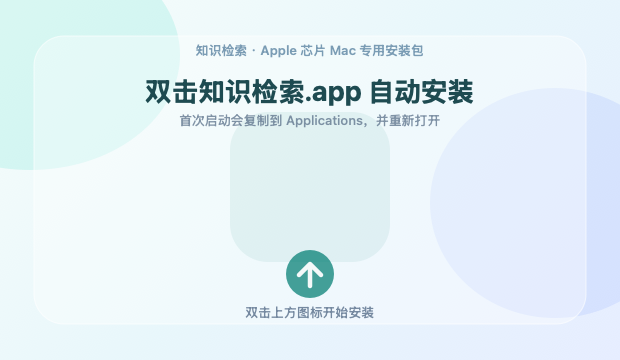
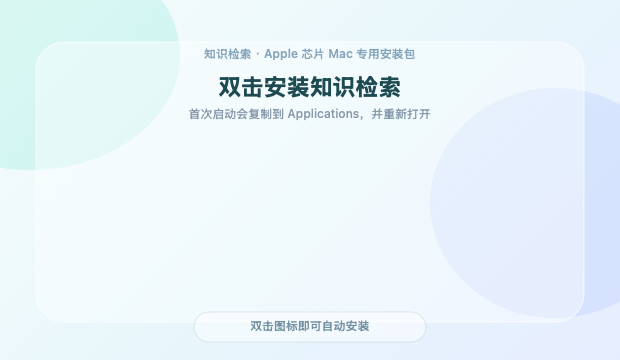
style: refine dmg installer layout

Changed region(s): [[0.2145, 0.2139, 0.7661, 0.3667], [0.3984, 0.6722, 0.6129, 0.9167], [0.3065, 0.1222, 0.7048, 0.1833]]

diff --git a/desktop/scripts/generate-dmg-background.swift b/desktop/scripts/generate-dmg-background.swift
@@ -53,69 +53,55 @@ func renderBackground(width: CGFloat, height: CGFloat, scale: CGFloat, outputURL
   NSColor(calibratedRed: 0.42, green: 0.53, blue: 1.0, alpha: 0.16).setFill()
   glowRight.fill()
 
-  let panel = NSBezierPath(roundedRect: rect(34, 36, 552, 288), xRadius: scaled(30), yRadius: scaled(30))
-  NSColor.white.withAlphaComponent(0.36).setFill()
+  let panel = NSBezierPath(roundedRect: rect(36, 38, 548, 280), xRadius: scaled(28), yRadius: scaled(28))
+  NSColor.white.withAlphaComponent(0.40).setFill()
   panel.fill()
-  NSColor.white.withAlphaComponent(0.58).setStroke()
+  NSColor.white.withAlphaComponent(0.62).setStroke()
   panel.lineWidth = scaled(1.1)
   panel.stroke()
-
-  let focusShadow = NSBezierPath(roundedRect: rect(230, 98, 160, 150), xRadius: scaled(38), yRadius: scaled(38))
-  NSColor(calibratedRed: 0.02, green: 0.44, blue: 0.38, alpha: 0.07).setFill()
-  focusShadow.fill()
 
   let paragraph = NSMutableParagraphStyle()
   paragraph.alignment = .center
 
   ("知识检索 · Apple 芯片 Mac 专用安装包" as NSString).draw(
-    in: rect(70, 294, 480, 24),
+    in: rect(70, 292, 480, 22),
     withAttributes: [
-      .font: NSFont.systemFont(ofSize: scaled(13), weight: .semibold),
-      .foregroundColor: NSColor(calibratedRed: 0.28, green: 0.43, blue: 0.56, alpha: 0.78),
+      .font: NSFont.systemFont(ofSize: scaled(12), weight: .semibold),
+      .foregroundColor: NSColor(calibratedRed: 0.28, green: 0.43, blue: 0.56, alpha: 0.70),
       .paragraphStyle: paragraph,
     ]
   )
 
-  ("双击知识检索.app 自动安装" as NSString).draw(
-    in: rect(70, 252, 480, 34),
+  ("双击安装知识检索" as NSString).draw(
+    in: rect(70, 258, 480, 30),
     withAttributes: [
-      .font: NSFont.systemFont(ofSize: scaled(28), weight: .bold),
+      .font: NSFont.systemFont(ofSize: scaled(24), weight: .bold),
       .foregroundColor: NSColor(calibratedRed: 0.05, green: 0.18, blue: 0.20, alpha: 0.92),
       .paragraphStyle: paragraph,
     ]
   )
 
   ("首次启动会复制到 Applications，并重新打开" as NSString).draw(
-    in: rect(70, 226, 480, 22),
+    in: rect(70, 234, 480, 20),
     withAttributes: [
-      .font: NSFont.systemFont(ofSize: scaled(13), weight: .medium),
-      .foregroundColor: NSColor(calibratedRed: 0.30, green: 0.38, blue: 0.48, alpha: 0.78),
+      .font: NSFont.systemFont(ofSize: scaled(12), weight: .medium),
+      .foregroundColor: NSColor(calibratedRed: 0.30, green: 0.38, blue: 0.48, alpha: 0.72),
       .paragraphStyle: paragraph,
     ]
   )
 
-  let arrowCircle = NSBezierPath(ovalIn: rect(286, 62, 48, 48))
-  NSColor(calibratedRed: 0.05, green: 0.42, blue: 0.37, alpha: 0.72).setFill()
-  arrowCircle.fill()
+  let hintPill = NSBezierPath(roundedRect: rect(194, 18, 232, 30), xRadius: scaled(15), yRadius: scaled(15))
+  NSColor.white.withAlphaComponent(0.48).setFill()
+  hintPill.fill()
+  NSColor(calibratedRed: 0.29, green: 0.54, blue: 0.55, alpha: 0.18).setStroke()
+  hintPill.lineWidth = scaled(1)
+  hintPill.stroke()
 
-  let arrow = NSBezierPath()
-  arrow.move(to: point(310, 74))
-  arrow.line(to: point(310, 96))
-  arrow.move(to: point(310, 96))
-  arrow.line(to: point(299, 85))
-  arrow.move(to: point(310, 96))
-  arrow.line(to: point(321, 85))
-  arrow.lineWidth = scaled(4.5)
-  arrow.lineCapStyle = .round
-  arrow.lineJoinStyle = .round
-  NSColor.white.withAlphaComponent(0.94).setStroke()
-  arrow.stroke()
-
-  ("双击上方图标开始安装" as NSString).draw(
-    in: rect(70, 34, 480, 22),
+  ("双击图标即可自动安装" as NSString).draw(
+    in: rect(194, 24, 232, 18),
     withAttributes: [
-      .font: NSFont.systemFont(ofSize: scaled(13), weight: .semibold),
-      .foregroundColor: NSColor(calibratedRed: 0.23, green: 0.31, blue: 0.43, alpha: 0.74),
+      .font: NSFont.systemFont(ofSize: scaled(12), weight: .semibold),
+      .foregroundColor: NSColor(calibratedRed: 0.20, green: 0.34, blue: 0.42, alpha: 0.72),
       .paragraphStyle: paragraph,
     ]
   )